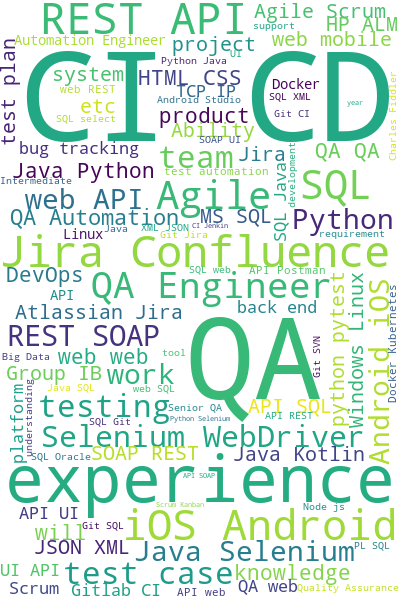
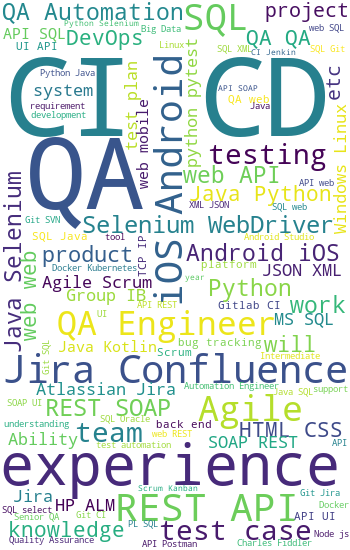
update picture and params.

diff --git a/templates/word_cloud.html b/templates/word_cloud.html
@@ -2,7 +2,7 @@
   {% block title %}Home Page{% endblock %}
   {% block content %}
 
-            <div id="chart" style="height: 600px;"><img src="/static/w_cloud.png"></div>
+            <div id="chart" style="height: 550px;"><img src="/static/w_cloud.png"></div>
 
   {% endblock %}
 </html>

diff --git a/word_cloud.py b/word_cloud.py
@@ -47,7 +47,7 @@ wordcloud = WordCloud(background_color="white",
                       contour_width=3, contour_color='steelblue',
                       min_word_length=2,
                       # width=800, height=600, margin=0,
-                      width=400, height=600, margin=0
+                      width=350, height=550, margin=0
                       ).generate(text)
 
 image = wordcloud.to_image()
